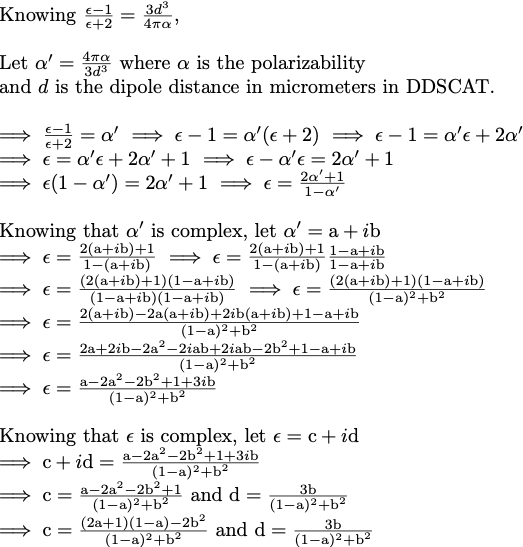
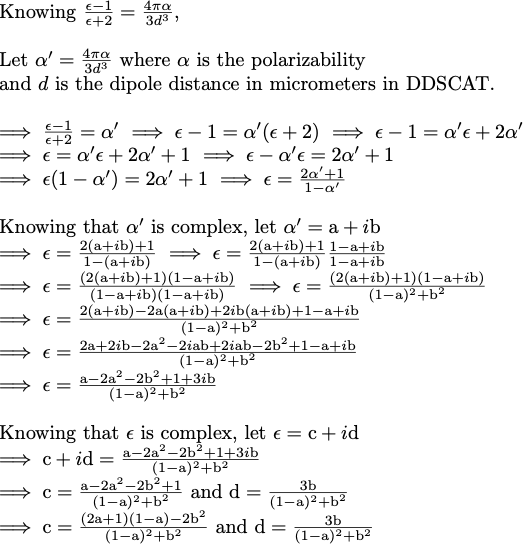
image change

diff --git a/polarizabilityProof.tex b/polarizabilityProof.tex
@@ -1,4 +1,4 @@
-\noindent $\textrm{Knowing } \frac{\epsilon-1}{\epsilon+2}=\frac{3d^3}{4\pi\alpha}$, \\
+\noindent $\textrm{Knowing } \frac{\epsilon-1}{\epsilon+2}=\frac{4\pi\alpha}{3d^3}$, \\
 
 \noindent Let $\alpha'=\frac{4\pi\alpha}{3d^3}$ where $\alpha$ is the polarizability \\ and $d$ is the dipole distance in micrometers in DDSCAT.\\\\
 \noindent$\implies\frac{\epsilon-1}{\epsilon+2}=\alpha'$
